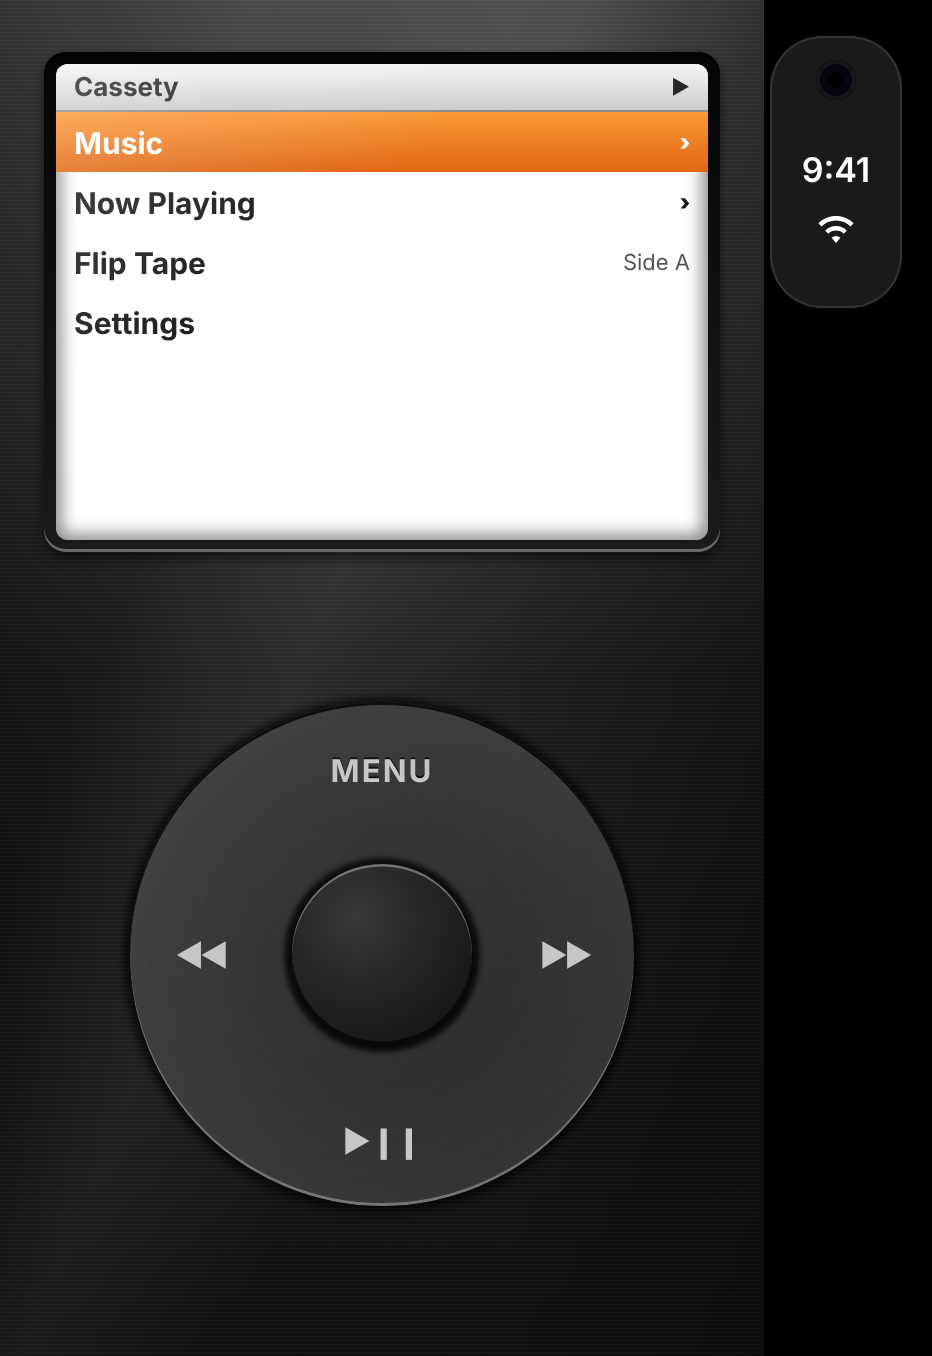
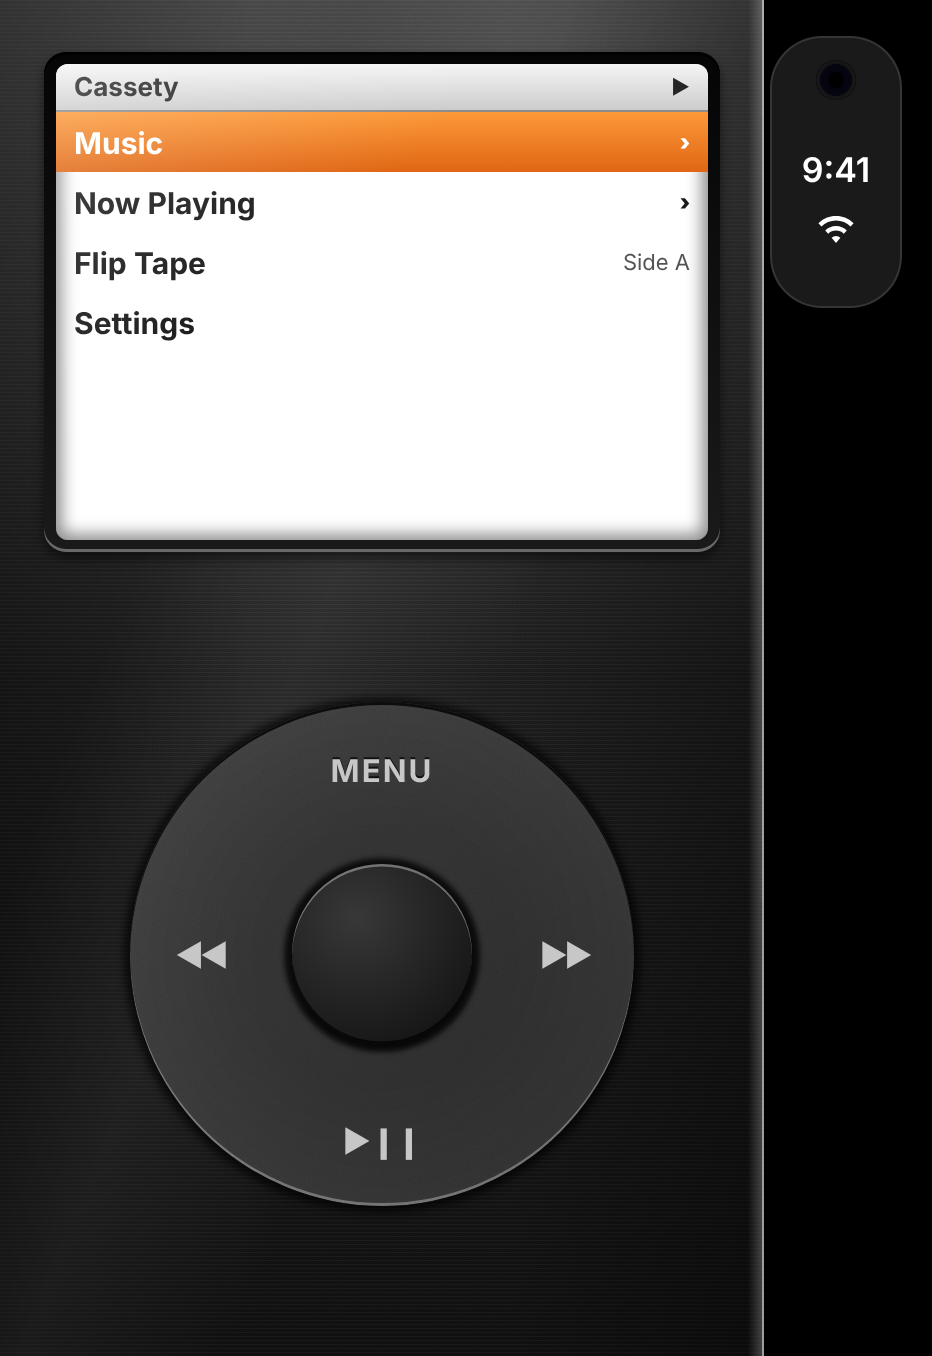
Light the click-wheel body's edge where it meets the bar
Claude-Session: https://claude.ai/code/session_015CNmSEpanpmujmbPK8yXHv

Changed region(s): [[0.809, 0.0, 0.8401, 1.0]]

diff --git a/TapeDeck/MenuPlayerView.swift b/TapeDeck/MenuPlayerView.swift
@@ -390,6 +390,21 @@ struct MenuPlayerView: View {
                                    startPoint: .top, endPoint: .bottom)
                     GlassShimmer(strength: 0.45)
                     }
+                    // Where the body ends at the bar, its edge is chamfered
+                    // and catches the light, so even the black one stands
+                    // clear of the black beside it.
+                    .overlay(alignment: railLeading ? .leading : .trailing) {
+                        if rail {
+                            HStack(spacing: 0) {
+                                LinearGradient(colors: [.clear, Color.white.opacity(0.22)],
+                                               startPoint: .leading, endPoint: .trailing)
+                                    .frame(width: 7)
+                                Color.white.opacity(skin == .wheelSilver ? 0.9 : 0.6).frame(width: 1.5)
+                            }
+                            .scaleEffect(x: railLeading ? -1 : 1)
+                            .allowsHitTesting(false)
+                        }
+                    }
                     .padding(railLeading ? .leading : .trailing,
                              rail ? max(insets.leading, insets.trailing) : 0)
                 }
